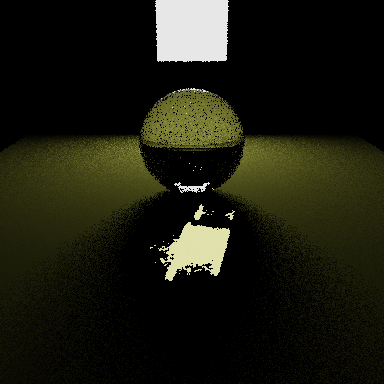
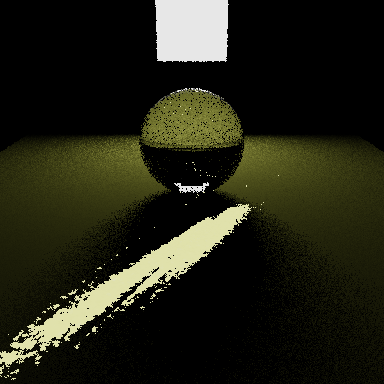
fixed build with custom hash

Changed region(s): [[0.0, 0.2188, 0.7188, 1.0], [0.7812, 0.7812, 0.8438, 0.8125], [0.7812, 0.7188, 0.8125, 0.75]]

diff --git a/stylized/stylizedcaustics.cpp b/stylized/stylizedcaustics.cpp
@@ -106,55 +106,58 @@ void StylizedCaustics::assign(std::vector<Vector2f>& images) {
     }
 }
 
-//void StylizedCaustics::refine(vector<Vector2f> I){
+void StylizedCaustics::refine(vector<Vector2f> positions){
 
-//    // construt a balanced kd tree (PhotonMap) out of target
-//    PhotonMap B = PhotonMap(targets.size());
-//    for (const auto& t: targets){
-//        // convert targets (vector<Vector2f>) to a vector<Photon> (y = 0)
-//        Photon t_photon = Photon{Vector3f::Zero(), Vector3f(t(0), 0, t(1)), Vector3f::Zero(), 0};
-//        B.store(t_photon);
-//    }
-//    B.update();
+    // construt a balanced kd tree (PhotonMap) out of target
+    PhotonMap B = PhotonMap(targets.size());
+    for (const auto& t: targets){
+        // convert targets (vector<Vector2f>) to a vector<Photon> (y = 0)
+        Photon t_photon = Photon{Vector3f::Zero(), Vector3f(t(0), 0, t(1)), Vector3f::Zero(), 0};
+        B.store(t_photon);
+    }
+    B.update();
 
-//    // construct a max heap containing the position b in B that is closest to each i in I
-//    multiset<photons_dist, less<photons_dist>> distMaxHeap;
-//    for (const auto& i : I){
-//        Photon b = B.getNearestPhotonFrom(Vector3f(i(0), 0, i(1)), 0.1);
-//        float distance = (i - Vector2f(b.origin(0), b.origin(2))).norm();
-//        photons_dist ppd {b, Photon{Vector3f::Zero(), Vector3f(i(0), 0, i(1))}, distance * distance};
-//        distMaxHeap.insert(ppd);
-//    }
+    // construct a max heap containing the position b in B that is closest to each pos in positions
+    // also construct a set of Photons for the next loop
+    multiset<photons_dist, less<photons_dist>> distMaxHeap;
+    unordered_set<Photon, photon_hash> I;
+    for (const auto& pos : positions){
+        Vector3f i_vec(pos(0), 0, pos(1));
+        Photon i = Photon{Vector3f::Zero(), i_vec};
+        Photon b = B.getNearestPhotonFrom(i_vec, 0.1);
+        float distance = (pos - Vector2f(b.origin(0), b.origin(2))).norm();
+        photons_dist ppd {b, i, distance * distance};
+        distMaxHeap.insert(ppd);
+        I.insert(i);
+    }
 
-//    // iteratively choose the max disance from distMaxHeap and store pair
-//    unordered_set<Vector2f> I_copy;
-//    I_copy.insert(I.begin(), I.end());
-//    unordered_map<Photon, Photon> h; // map i -> b
-//    while (!I_copy.empty()){
-//        photons_dist d = *distMaxHeap.begin();
-//        Photon b = d.p1;
-//        Photon i = d.p2;
-//        h[b] = i;
+    // iteratively choose the max disance from distMaxHeap and store pair
+    unordered_map<Photon, Photon, photon_hash> h; // map i -> b
+    while (!I.empty()){
+        photons_dist d = *distMaxHeap.begin();
+        Photon b = d.p1;
+        Photon i = d.p2;
+        h[b] = i;
 
-//        B.remove(b);
-//        I_copy.erase(I_copy.find(Vector2f(i.origin(0), i.origin(2))));
+        B.remove(b);
+        I.erase(I.find(i));
 
-//        // update distMaxHeap: delete the first element w/ i
-//        distMaxHeap.erase(distMaxHeap.begin());
-//        // for all the objects in distMaxHeap, replace the b if b is deleted
-//        multiset<photons_dist, less<photons_dist>> distMaxHeapTemp;
-//        auto curr_it = distMaxHeap.begin();
-//        while (curr_it != distMaxHeap.end()){
-//            photons_dist curr = *curr_it;
-//            if (curr.p1 == b){
-//                curr.p1 = B.getNearestPhotonFrom(curr.p2.origin, 0.1);
-//            }
-//            distMaxHeap.insert(curr);
-//            curr_it = next(curr_it);
-//        }
-//        distMaxHeap.swap(distMaxHeapTemp);
-//    }
-//}
+        // update distMaxHeap: delete the first element w/ i
+        distMaxHeap.erase(distMaxHeap.begin());
+        // for all the objects in distMaxHeap, replace the b if b is deleted
+        multiset<photons_dist, less<photons_dist>> distMaxHeapTemp;
+        auto curr_it = distMaxHeap.begin();
+        while (curr_it != distMaxHeap.end()){
+            photons_dist curr = *curr_it;
+            if (curr.p1 == b){
+                curr.p1 = B.getNearestPhotonFrom(curr.p2.origin, 0.1);
+            }
+            distMaxHeap.insert(curr);
+            curr_it = next(curr_it);
+        }
+        distMaxHeap.swap(distMaxHeapTemp);
+    }
+}
 
 std::vector<Eigen::Vector2f> StylizedCaustics::move(float t) {
     std::vector<Eigen::Vector2f> res(sources.size());

diff --git a/photon.h b/photon.h
@@ -14,6 +14,13 @@ typedef struct Photon {
     Eigen::Vector3f dir;    // incoming direction
 } Photon;
 
+struct photon_hash{
+    size_t operator()(const Photon& p) const {
+        // Combine the hashes of individual attributes using XOR and bit shifting
+        std::hash<float> float_hash;
+        return float_hash(p.origin.x()) ^ (float_hash(p.origin.y()) << 1) ^ (float_hash(p.origin.z()) << 2);
+     }
+};
 
 inline int calculate_mid(int start, int end)
 {
@@ -46,20 +53,20 @@ public:
     void get_nearest_photons(const vector<Photon>& photons, int index);
 };
 
-//inline bool operator==(const Photon& a, const Photon& b)
-//{
-//    return a.origin == b.origin;
-//}
+inline bool operator==(const Photon& a, const Photon& b)
+{
+    return a.origin == b.origin;
+}
 
-//inline bool operator<(const Photon& a, const Photon& b)
-//{
-//    return a.origin[a.divide_axis] < b.origin[b.divide_axis];
-//}
+inline bool operator<(const Photon& a, const Photon& b)
+{
+    return a.origin[a.divide_axis] < b.origin[b.divide_axis];
+}
 
-//inline bool operator>(const Photon& a, const Photon& b)
-//{
-//    return a.origin[a.divide_axis] > b.origin[b.divide_axis];
-//}
+inline bool operator>(const Photon& a, const Photon& b)
+{
+    return a.origin[a.divide_axis] > b.origin[b.divide_axis];
+}
 
 class PhotonMap
 {
@@ -75,7 +82,7 @@ public:
     void store(Photon p);
     float get_photon_origin_axis(int index, int axis);
     void split(std::vector<Photon>& photons_temp, int start, int end, int mid, int axis);
-//    void remove(Photon p);
+    void remove(Photon p);
     void update();
     void balance();
     void balance(std::vector<Photon>& photons_temp, int index, int start, int end);

diff --git a/photon.cpp b/photon.cpp
@@ -137,30 +137,30 @@ void PhotonMap::balance(vector<Photon>& photons_temp, int index, int start, int 
     }
 }
 
-//void PhotonMap::remove(Photon p){
-//    int low = 0, high = static_cast<int>(photons.size()) - 1;
-//    int index = -1;
+void PhotonMap::remove(Photon p){
+    int low = 0, high = static_cast<int>(photons.size()) - 1;
+    int index = -1;
 
-//    while (low <= high){
-//        int mid = low + (high - low) / 2;
+    while (low <= high){
+        int mid = low + (high - low) / 2;
 
-//        if (photons[mid] == p){
-//            index = mid;
-//            break;
-//        }
+        if (photons[mid] == p){
+            index = mid;
+            break;
+        }
 
-//        if (photons[mid] < p){
-//            low = mid + 1;
-//        } else {
-//            high = mid - 1;
-//        }
-//    }
+        if (photons[mid] < p){
+            low = mid + 1;
+        } else {
+            high = mid - 1;
+        }
+    }
 
-//    if (index != -1){
-//        photons.erase(photons.begin() + index);
-//        update();
-//    }
-//}
+    if (index != -1){
+        photons.erase(photons.begin() + index);
+        update();
+    }
+}
 
 
 Eigen::Vector3f PhotonMap::getFixedRadiusIrradiance(Eigen::Vector3f origin, Eigen::Vector3f normal, float max_dist, int max_num, int min_num)

diff --git a/stylized/stylizedcaustics.h b/stylized/stylizedcaustics.h
@@ -4,7 +4,6 @@
 #include "photon.h"
 #include "stylized/projection/plane.h"
 #include <Eigen/Dense>
-#include <vector>
 #include <random>
 #include <unordered_map>
 #include <unordered_set>
@@ -20,7 +19,7 @@ public:
     std::vector<Eigen::Vector2f> sample(int width, int height, std::string path);
     void project(const Scene& scene, const std::vector<Photon> photons, Plane& plane);
     void assign(std::vector<Eigen::Vector2f>& images);
-//    void refine(std::vector<Eigen::Vector2f> I);
+    void refine(std::vector<Eigen::Vector2f> I);
     std::vector<Eigen::Vector2f> move(float t = 0);
     void backProject(const Scene& scene, PhotonMap& pmap_caustic, Plane& plane, std::vector<Eigen::Vector2f>& currentPos);
 
